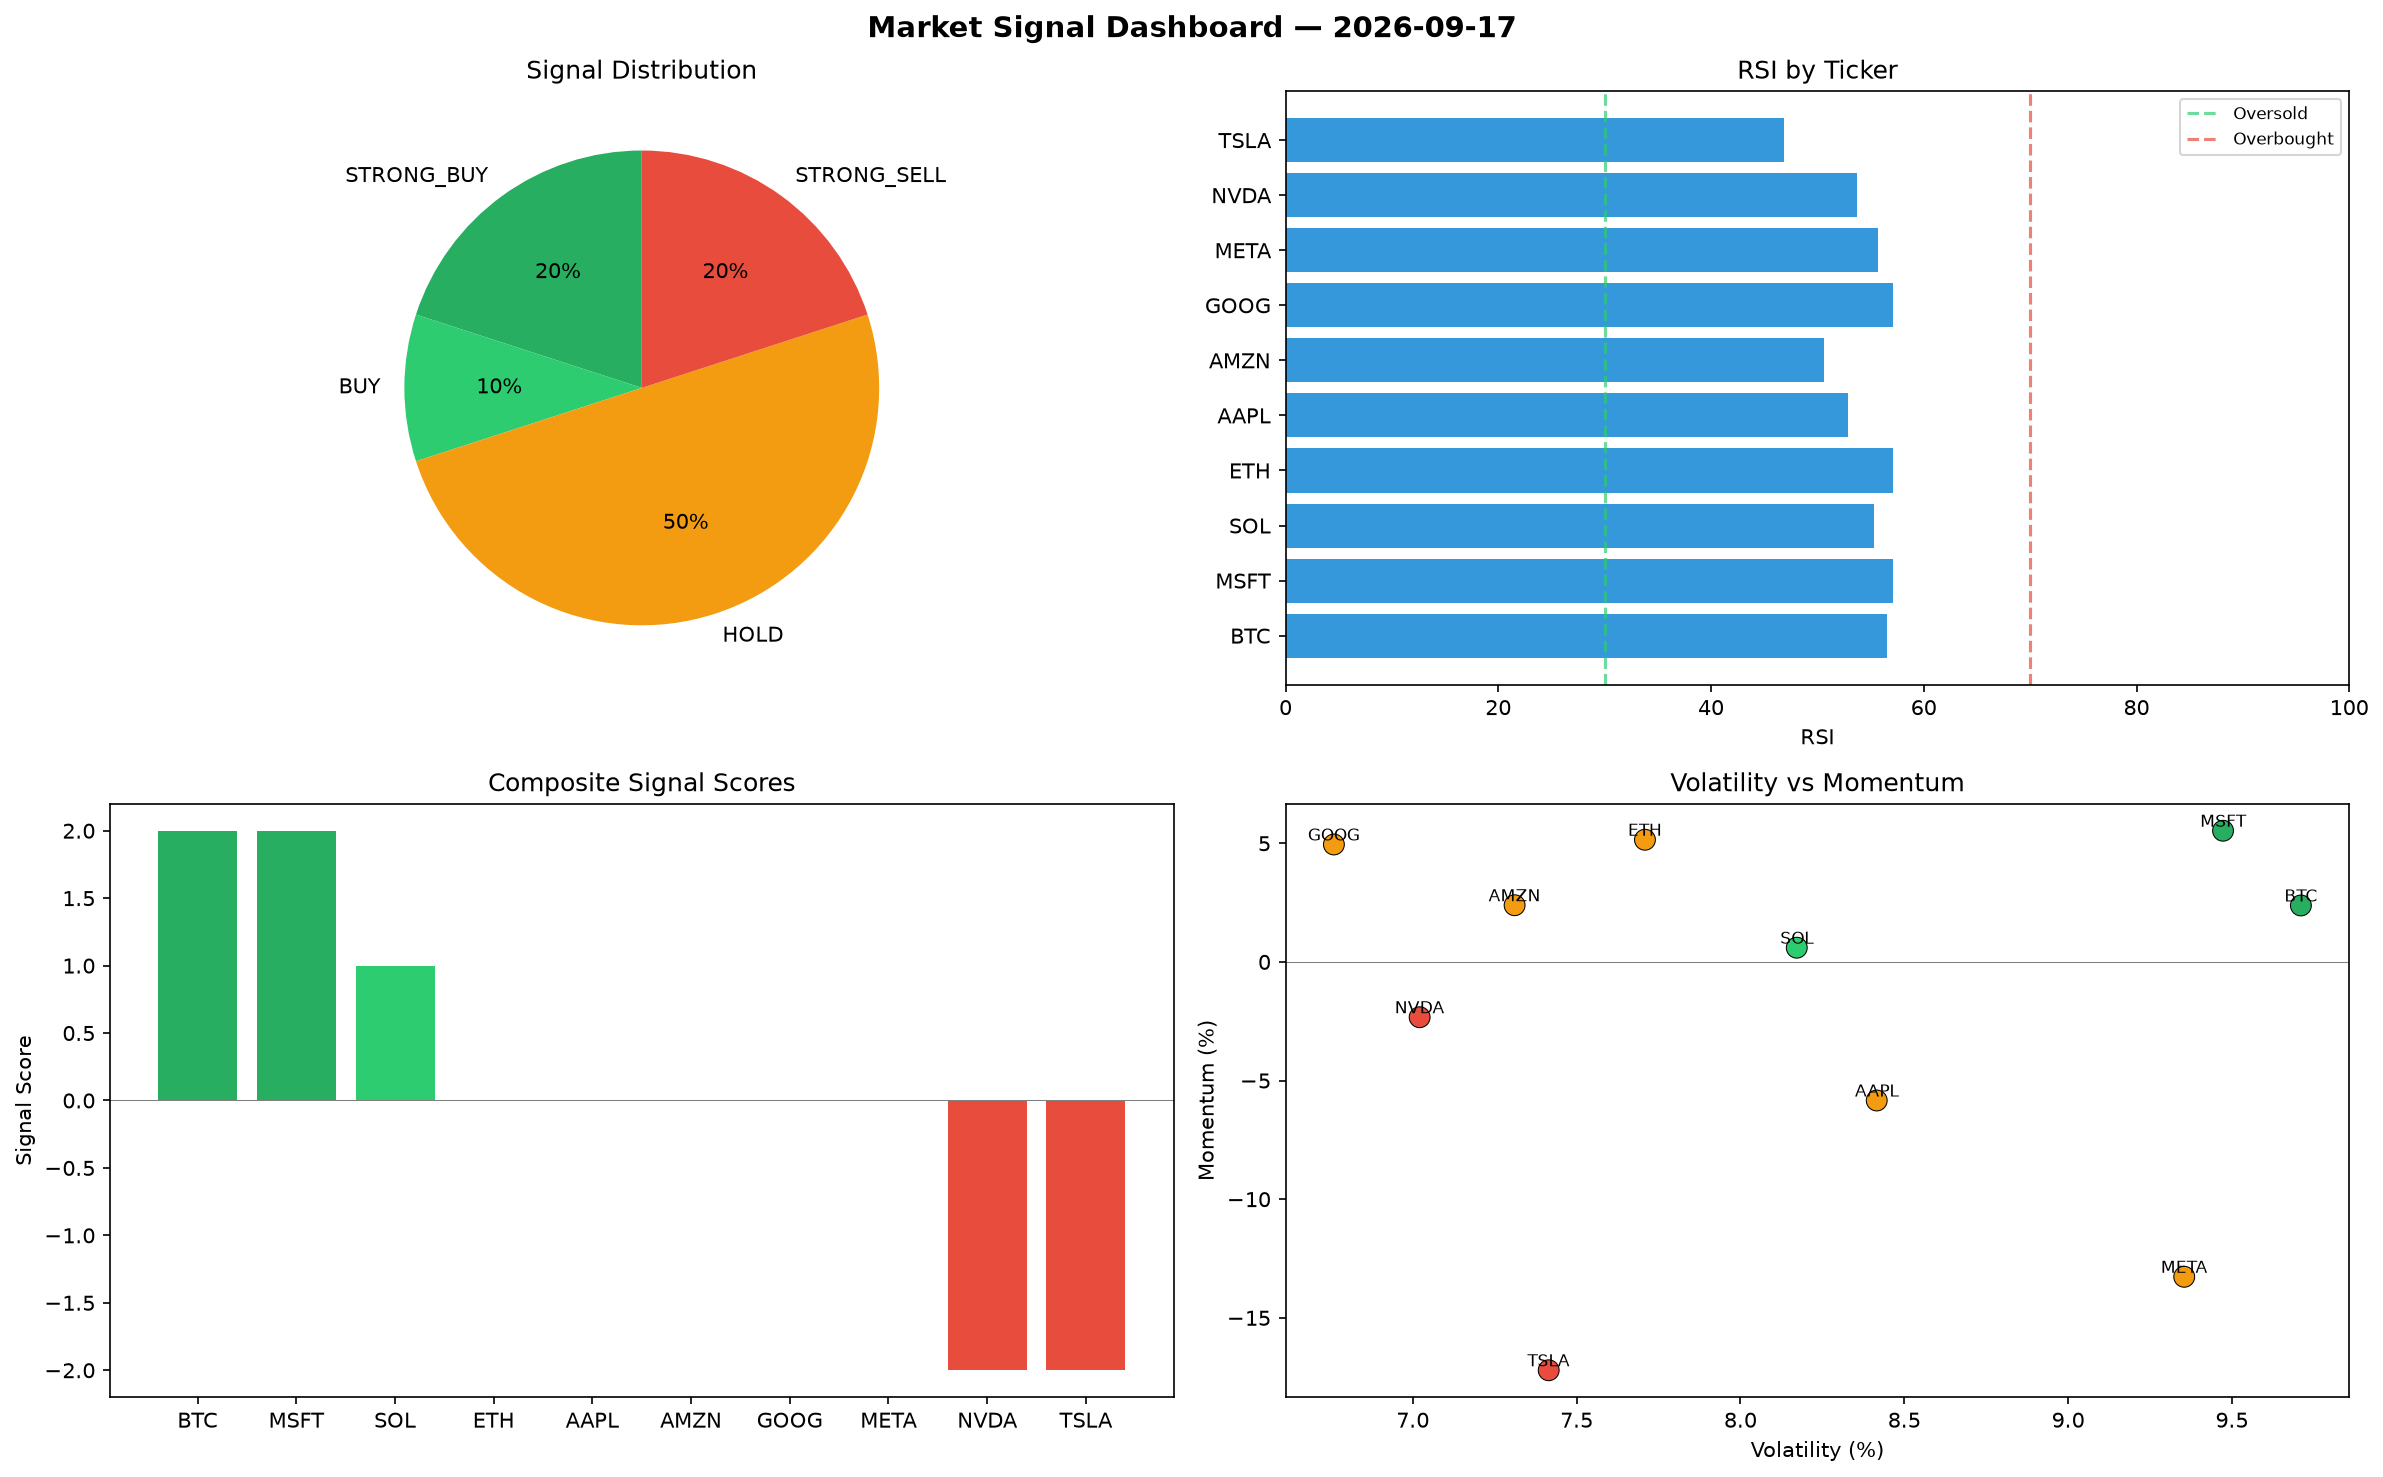
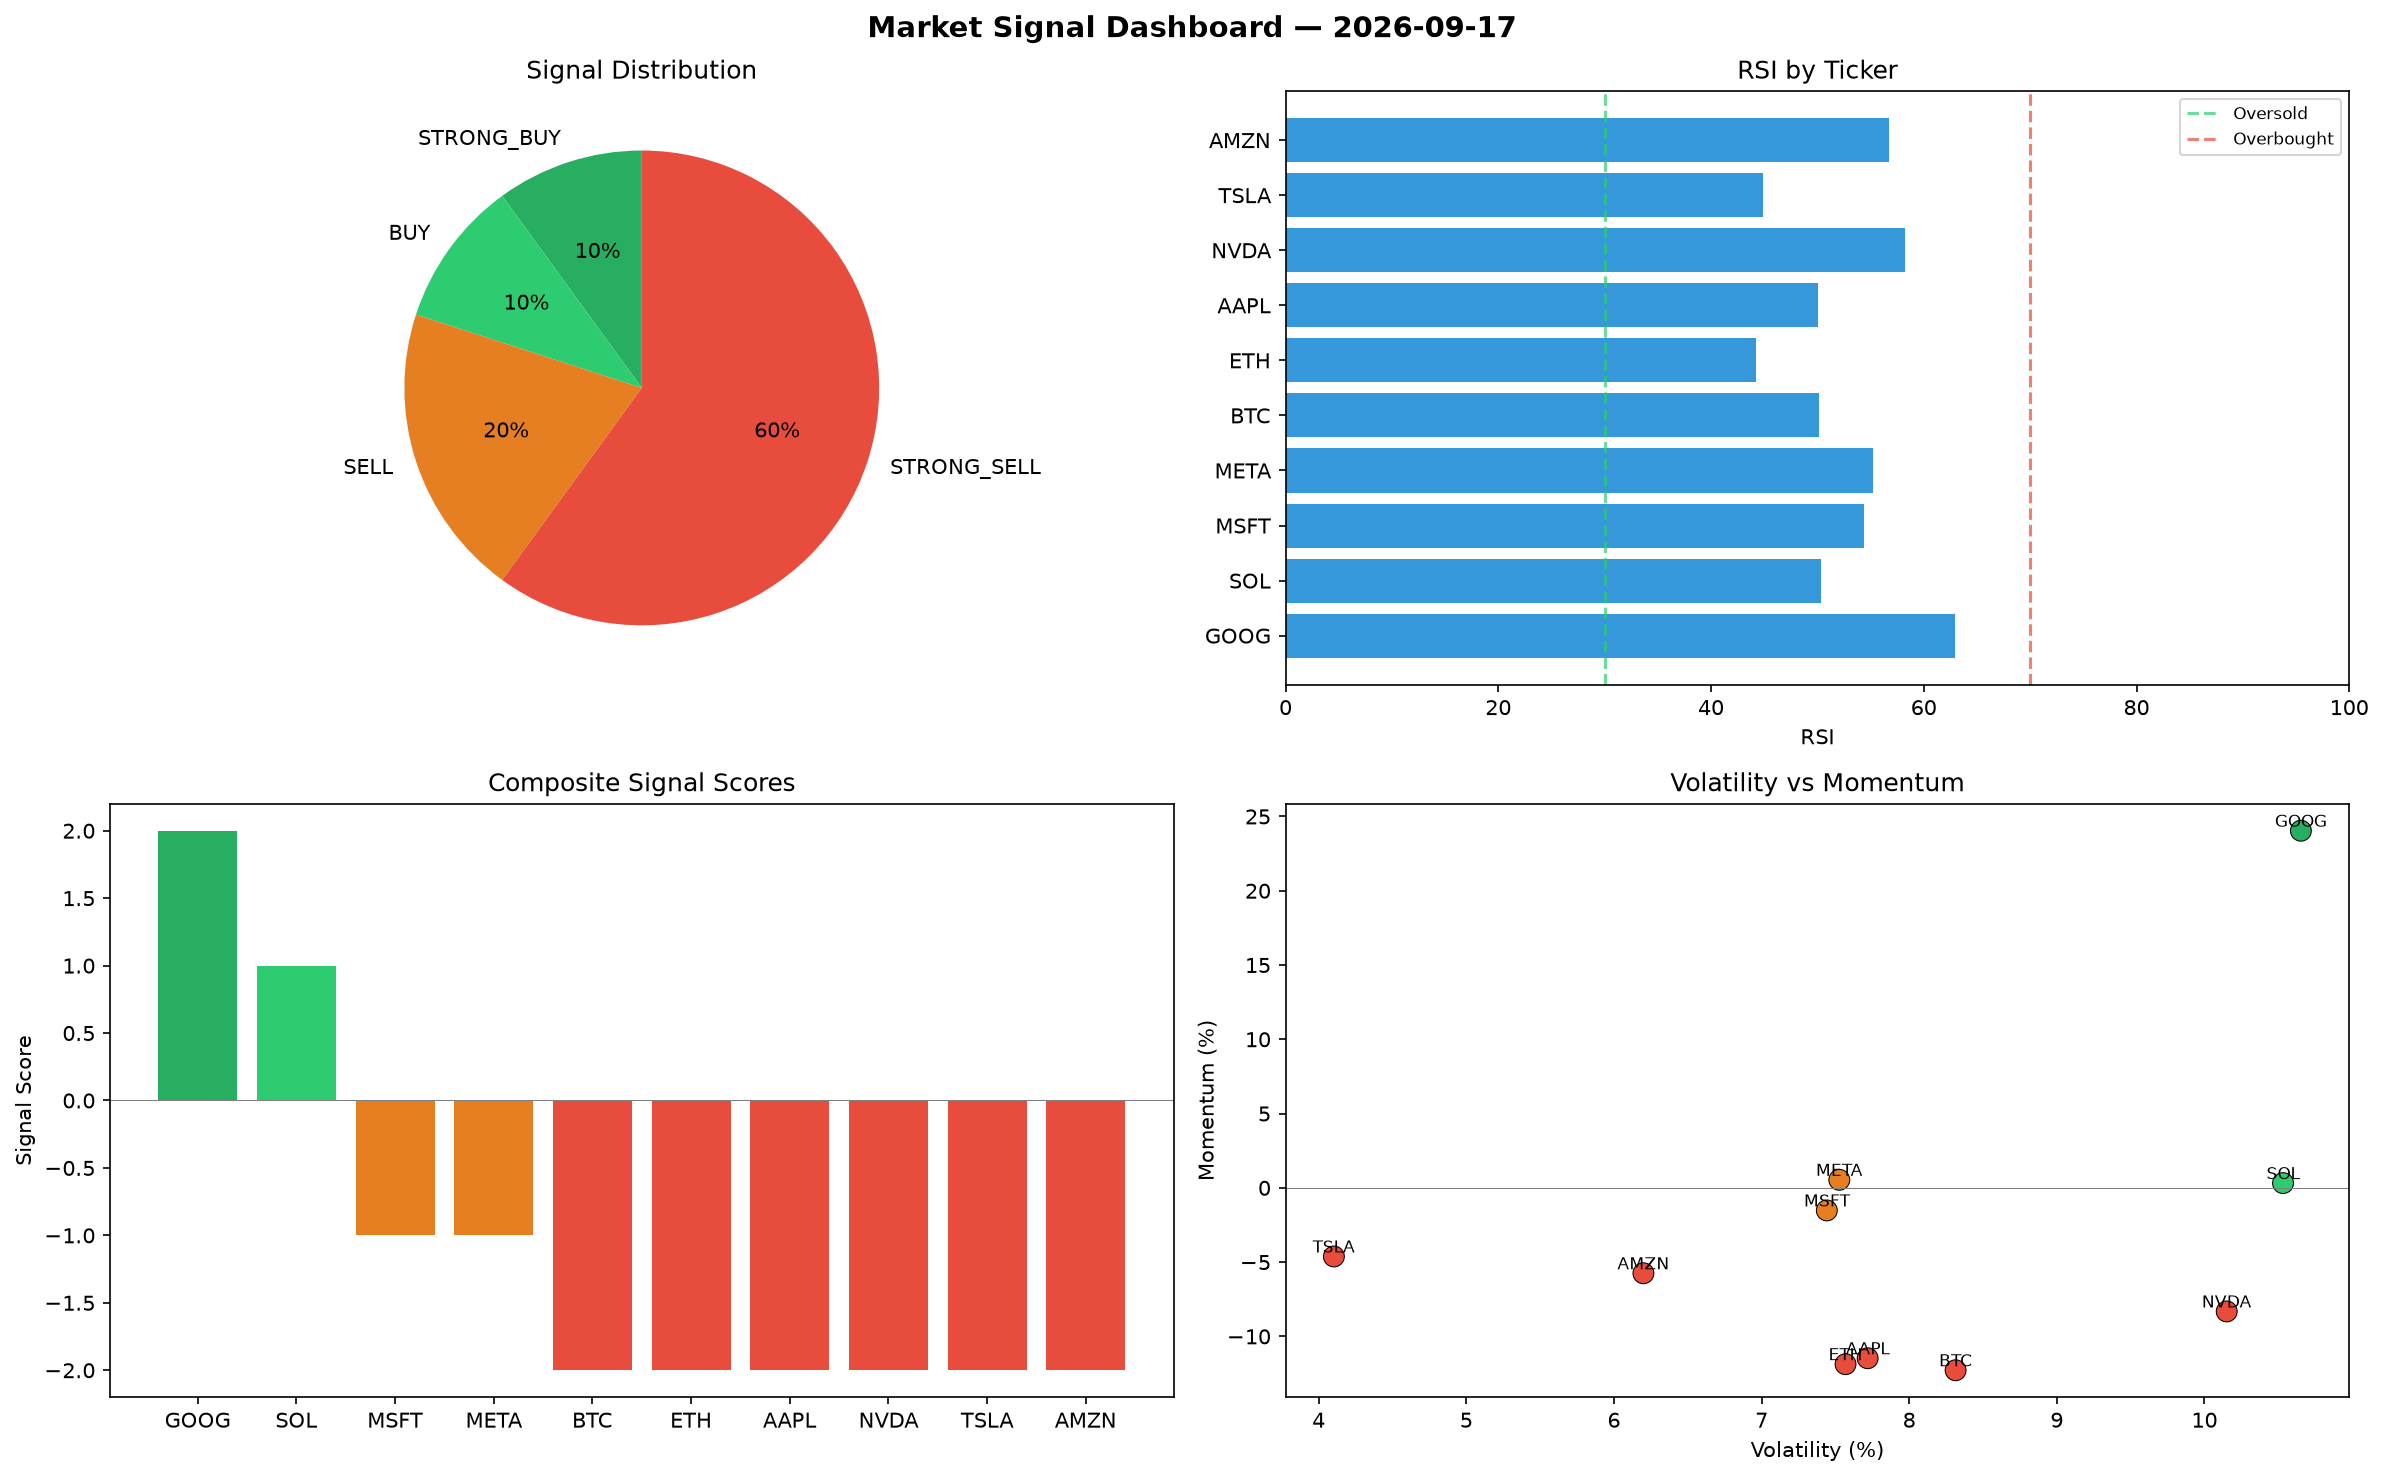
automated-bots: market signals 2026-09-17T22:56

diff --git a/logs/2026-09-17.md b/logs/2026-09-17.md
@@ -1,6 +1,6 @@
 # Market Signal Report — 2026-09-17
 
-**Run ID:** `ad324c7633` | **Buy:** 3 | **Sell:** 2 | **Hold:** 5
+**Run ID:** `58e0e545dd` | **Buy:** 2 | **Sell:** 8 | **Hold:** 0
 
 ![Dashboard](2026-09-17_dashboard.png)
 
@@ -8,28 +8,28 @@
 
 | Ticker | Price | Signal | Score | RSI | Momentum | Confidence |
 |--------|-------|--------|-------|-----|----------|------------|
-| BTC | $3784.31 | **STRONG_BUY** | 2 | 56.56 | 0.0238 | 0.5 |
-| MSFT | $3920.16 | **STRONG_BUY** | 2 | 57.11 | 0.0553 | 0.5 |
-| SOL | $4927.25 | **BUY** | 1 | 55.3 | 0.006 | 0.25 |
-| ETH | $287.07 | **HOLD** | 0 | 57.14 | 0.0515 | 0.0 |
-| AAPL | $3336.24 | **HOLD** | 0 | 52.9 | -0.0584 | 0.0 |
-| AMZN | $864.31 | **HOLD** | 0 | 50.58 | 0.0239 | 0.0 |
-| GOOG | $2343.5 | **HOLD** | 0 | 57.15 | 0.0495 | 0.0 |
-| META | $777.84 | **HOLD** | 0 | 55.74 | -0.1327 | 0.0 |
-| NVDA | $3623.96 | **STRONG_SELL** | -2 | 53.68 | -0.0233 | 0.5 |
-| TSLA | $2674.6 | **STRONG_SELL** | -2 | 46.85 | -0.1721 | 0.5 |
+| GOOG | $425.98 | **STRONG_BUY** | 2 | 62.98 | 0.2404 | 0.5 |
+| SOL | $4342.65 | **BUY** | 1 | 50.34 | 0.0032 | 0.25 |
+| MSFT | $3543.99 | **SELL** | -1 | 54.35 | -0.0152 | 0.25 |
+| META | $4680.45 | **SELL** | -1 | 55.19 | 0.0054 | 0.25 |
+| BTC | $2822.28 | **STRONG_SELL** | -2 | 50.19 | -0.1228 | 0.5 |
+| ETH | $702.67 | **STRONG_SELL** | -2 | 44.22 | -0.1187 | 0.5 |
+| AAPL | $136.78 | **STRONG_SELL** | -2 | 50.08 | -0.1147 | 0.5 |
+| NVDA | $3651.0 | **STRONG_SELL** | -2 | 58.19 | -0.0832 | 0.5 |
+| TSLA | $2021.61 | **STRONG_SELL** | -2 | 44.84 | -0.0462 | 0.5 |
+| AMZN | $1597.08 | **STRONG_SELL** | -2 | 56.77 | -0.0575 | 0.5 |
 
 ## Delta vs Yesterday
 
 | Ticker | Today | Yesterday | Price Change | Signal Changed |
 |--------|-------|-----------|-------------|----------------|
-| BTC | STRONG_BUY | STRONG_SELL | 📈 91.28% | ⚠ YES |
-| MSFT | STRONG_BUY | STRONG_SELL | 📈 8.86% | ⚠ YES |
-| SOL | BUY | STRONG_SELL | 📈 307.11% | ⚠ YES |
-| ETH | HOLD | STRONG_SELL | 📉 -89.4% | ⚠ YES |
-| AAPL | HOLD | BUY | 📈 149.47% | ⚠ YES |
-| AMZN | HOLD | STRONG_SELL | 📉 -57.05% | ⚠ YES |
-| GOOG | HOLD | SELL | 📈 5726.7% | ⚠ YES |
-| META | HOLD | STRONG_SELL | 📈 263.83% | ⚠ YES |
-| NVDA | STRONG_SELL | STRONG_BUY | 📈 1630.64% | ⚠ YES |
-| TSLA | STRONG_SELL | STRONG_BUY | 📈 3.32% | ⚠ YES |
+| GOOG | STRONG_BUY | SELL | 📈 959.12% | ⚠ YES |
+| SOL | BUY | STRONG_SELL | 📈 258.81% | ⚠ YES |
+| MSFT | SELL | STRONG_SELL | 📉 -1.59% | ⚠ YES |
+| META | SELL | STRONG_SELL | 📈 2089.27% | ⚠ YES |
+| BTC | STRONG_SELL | STRONG_SELL | 📈 42.65% | — |
+| ETH | STRONG_SELL | STRONG_SELL | 📉 -74.06% | — |
+| AAPL | STRONG_SELL | BUY | 📉 -89.77% | ⚠ YES |
+| NVDA | STRONG_SELL | STRONG_BUY | 📈 1643.55% | ⚠ YES |
+| TSLA | STRONG_SELL | STRONG_BUY | 📉 -21.9% | ⚠ YES |
+| AMZN | STRONG_SELL | STRONG_SELL | 📉 -20.64% | — |
